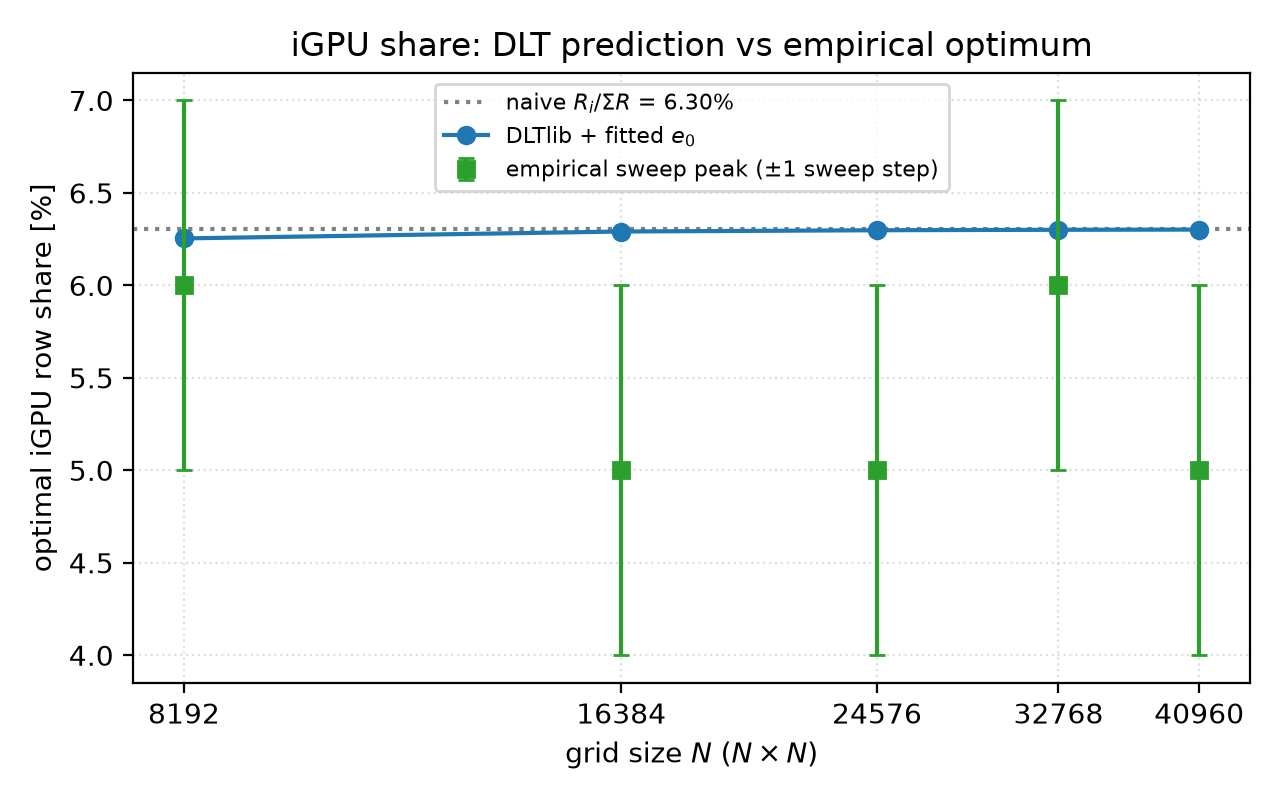
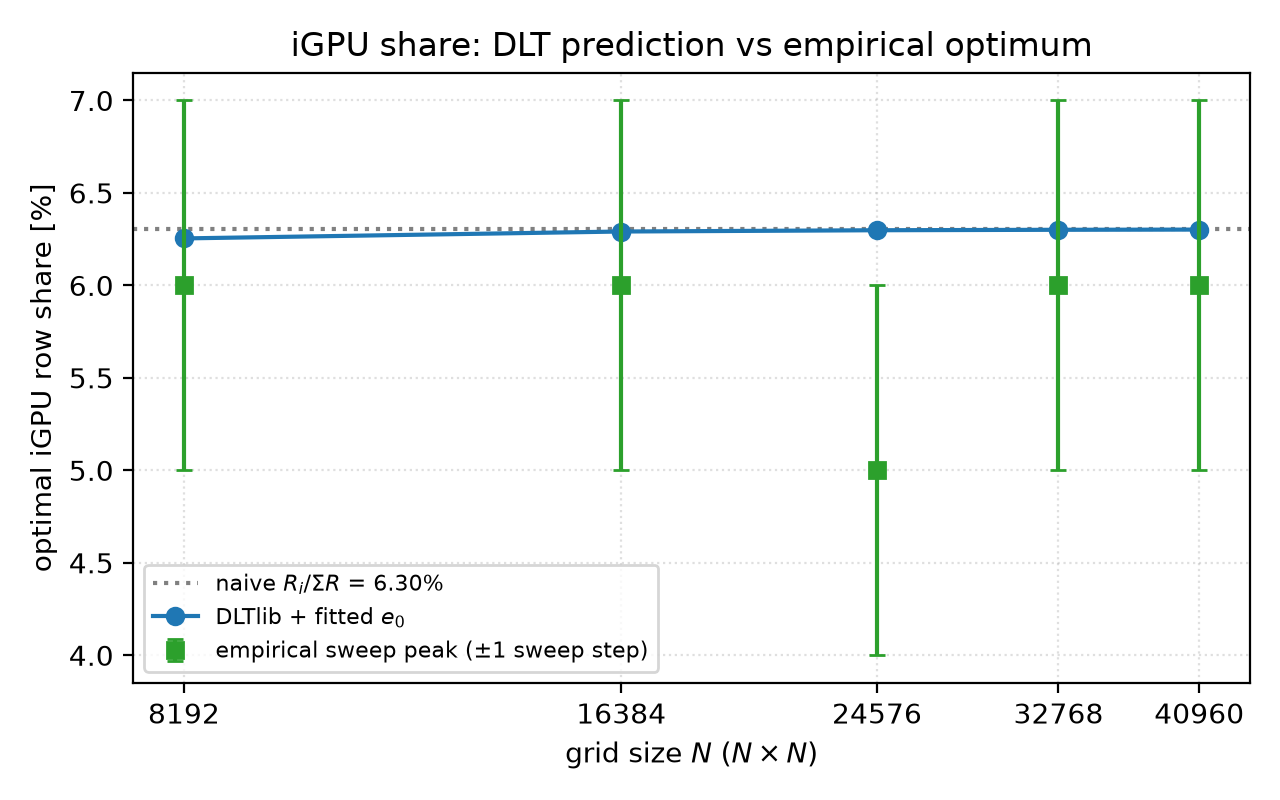
report(hybrid): re-run fraction sweep; fix fig 2's overlapping twin-axis panel
Panel B of hybrid_frac_sweep.png twin-axed "gain over pure dGPU" against
"share of the R_i+R_d ceiling" -- but share = dGPU-share * (1 + gain) with the
dGPU share flat at ~93.7%, so the second curve was an affine rescale of the
first and the two lines rendered on top of each other. Redesign: one axis,
hybrid vs pure dGPU as shares of the ceiling, the win annotated as the gap;
panel A now encodes N with an ordinal light->dark ramp instead of assorted
hues.

The sweep re-ran end to end (the original frac_sweep.csv was never committed)
and reproduces the story within boost noise: peaks at a 5-6% iGPU share (4/5
grids at 6%), cliff past 7% (deepest at N=40960), win +1.1% (8192^2) -> +5.5%
(32768^2) at 98.9% of the ceiling. This time the CSV is committed and the
figure comes from a committed script (analysis/plot_frac_sweep.py), which
also prints the tab:frac numbers for syncing.

Synced to the new data: tab:frac, abstract, prose, fig 2 caption, and the
tab:dlt empirical column in hybrid_report.tex (PDF rebuilt); EMPIRICAL peaks
in analysis/dlt/plot_dlt.py (dlt_pred_vs_empirical.png regenerated); the
CLAUDE.md finding + layout tree. sweep_fracs.sh gets its lost +x bit back.

Claude-Session: https://claude.ai/code/session_019XXCGrGnquYErcLBCEXhaA

diff --git a/analysis/plot_frac_sweep.py b/analysis/plot_frac_sweep.py
@@ -1,0 +1,133 @@
+#!/usr/bin/env python3
+"""Figure for the iGPU+dGPU fraction-sweep section of report/hybrid_report.tex.
+
+Reads results/linux/frac_sweep.csv (written by scripts/sweep_fracs.sh: the binary's
+12-column --csv schema plus a leading igpu_frac column, REPS rows per point) and
+writes report/img/hybrid_frac_sweep.png:
+
+  (A) steady-state throughput vs iGPU row share, one curve per grid size N —
+      best-of-reps per point, an ordinal light->dark ramp so the curve order
+      encodes N, and the naive-DLT share R_i/(R_i+R_d) as a reference line.
+  (B) best static split vs pure dGPU as a share of the DLT ceiling R_i+R_d, on a
+      single axis. (An earlier revision twin-axed "gain over dGPU" against
+      "share of ceiling"; those are the same curve up to the constant dGPU/ceiling
+      factor, so the two lines rendered on top of each other — the gain is the
+      *gap* between the two curves here, annotated at the ends.)
+
+Also prints the Table 'tab:frac' summary rows (and the peak shares that feed
+EMPIRICAL in analysis/dlt/plot_dlt.py), so report numbers can be synced.
+"""
+import csv
+import os
+from collections import defaultdict
+
+import matplotlib
+matplotlib.use("Agg")
+import matplotlib.pyplot as plt
+
+HERE = os.path.dirname(os.path.abspath(__file__))
+CSV = os.path.join(HERE, "..", "results", "linux", "frac_sweep.csv")
+OUT = os.path.abspath(os.path.join(HERE, "..", "report", "img", "hybrid_frac_sweep.png"))
+
+R_IGPU = 2.1e3  # Mcells/s; the iGPU halo rate from the DLT fit (report Eq. naive2gpu)
+
+# Ordinal blue ramp (one hue, light->dark encodes N) + chart chrome.
+RAMP = ["#86b6ef", "#5598e7", "#2a78d6", "#1c5cab", "#0d366b"]
+INK, INK2, MUTED, GRIDC, AXISC = "#0b0b0b", "#52514e", "#898781", "#e1e0d9", "#c3c2b7"
+
+
+def load():
+    """-> {N: {frac: best-of-reps Mcells/s (kernel)}}"""
+    best = defaultdict(dict)
+    with open(CSV) as f:
+        for row in csv.DictReader(f):
+            n, frac = int(row["rows"]), float(row["igpu_frac"])
+            mc = float(row["mcells_kernel"])
+            if mc > best[n].get(frac, 0.0):
+                best[n][frac] = mc
+    return dict(sorted(best.items()))
+
+
+def style(ax):
+    ax.grid(True, color=GRIDC, lw=0.7)
+    ax.set_axisbelow(True)
+    for s in ax.spines.values():
+        s.set_color(AXISC)
+    ax.tick_params(colors=MUTED, labelsize=8)
+
+
+def main():
+    best = load()
+    ns = list(best)
+
+    fig, (axa, axb) = plt.subplots(1, 2, figsize=(10.0, 4.0), dpi=200)
+    fig.patch.set_facecolor("white")
+
+    # ---- (A) throughput vs split, per grid size ----
+    for i, n in enumerate(ns):
+        pts = sorted(best[n].items())
+        fr = [f * 100 for f, _ in pts]
+        gc = [m / 1e3 for _, m in pts]
+        axa.plot(fr, gc, "-o", color=RAMP[i], lw=2, ms=5,
+                 markeredgecolor="white", markeredgewidth=1.1,
+                 solid_capstyle="round", label=f"$N$={n}")
+    # Reference the naive share against the mean pure-dGPU rate over the grids.
+    r_d = sum(best[n][0.0] for n in ns) / len(ns)
+    naive = 100 * R_IGPU / (R_IGPU + r_d)
+    axa.axvline(naive, color=MUTED, lw=1, ls=(0, (4, 3)))
+    axa.text(naive + 0.15, axa.get_ylim()[0] + 0.5,
+             f"naive DLT\n$R_i/\\Sigma R$ = {naive:.1f}%",
+             color=INK2, fontsize=7.5, va="bottom")
+    axa.set_xlabel("iGPU row share (%)", color=INK2, fontsize=9)
+    axa.set_ylabel("throughput (Gcells/s, kernel)", color=INK2, fontsize=9)
+    axa.set_title("(A) Throughput vs split, per grid size", color=INK, fontsize=10)
+    axa.legend(fontsize=7.5, loc="lower left", edgecolor=AXISC,
+               labelcolor=INK2, framealpha=1.0)
+    style(axa)
+
+    # ---- (B) share of the DLT ceiling, single axis ----
+    dgpu = [best[n][0.0] for n in ns]
+    peak = [max(best[n].values()) for n in ns]
+    ceil = [d + R_IGPU for d in dgpu]
+    hyb_pct = [100 * p / c for p, c in zip(peak, ceil)]
+    dgpu_pct = [100 * d / c for d, c in zip(dgpu, ceil)]
+    win = [100 * (p / d - 1) for p, d in zip(peak, dgpu)]
+
+    axb.axhline(100, color=AXISC, lw=1)
+    axb.text(ns[0], 100.15, "DLT ceiling  $R_i+R_d$", color=INK2, fontsize=7.5,
+             va="bottom")
+    axb.plot(ns, hyb_pct, "-o", color=RAMP[2], lw=2, ms=5.5,
+             markeredgecolor="white", markeredgewidth=1.1, label="best static split")
+    axb.plot(ns, dgpu_pct, "-o", color=MUTED, lw=2, ms=5,
+             markeredgecolor="white", markeredgewidth=1.1, label="pure dGPU")
+    # The gain over pure dGPU is the gap between the curves; annotate the ends.
+    for i in sorted({0, win.index(max(win))}):
+        axb.annotate(f"+{win[i]:.1f}%", (ns[i], hyb_pct[i]), (0, 8),
+                     textcoords="offset points", ha="center",
+                     color=INK2, fontsize=8)
+    axb.set_xticks(ns)
+    axb.set_xticklabels([str(n) for n in ns])
+    axb.set_xlabel("grid size $N$  ($N \\times N$)", color=INK2, fontsize=9)
+    axb.set_ylabel("% of DLT ceiling  $R_i+R_d$", color=INK2, fontsize=9)
+    axb.set_title("(B) Best split vs pure dGPU, share of the ceiling",
+                  color=INK, fontsize=10)
+    axb.set_ylim(min(dgpu_pct) - 1.2, 101.4)
+    axb.legend(fontsize=7.5, loc="center right", edgecolor=AXISC,
+               labelcolor=INK2, framealpha=1.0)
+    style(axb)
+
+    fig.tight_layout()
+    fig.savefig(OUT, facecolor="white")
+    print("wrote", OUT)
+
+    # tab:frac / plot_dlt.py EMPIRICAL sync
+    print(f"\n{'N':>6} {'dGPU':>6} {'best':>6} {'share':>6} {'win':>6} "
+          f"{'ceiling':>7} {'%ceil':>6}")
+    for i, n in enumerate(ns):
+        share = max(best[n], key=best[n].get)
+        print(f"{n:>6} {dgpu[i]/1e3:>6.2f} {peak[i]/1e3:>6.2f} {share*100:>5.0f}% "
+              f"{win[i]:>+5.1f}% {ceil[i]/1e3:>7.2f} {hyb_pct[i]:>5.1f}%")
+
+
+if __name__ == "__main__":
+    main()

diff --git a/report/hybrid_report.tex b/report/hybrid_report.tex
@@ -71,7 +71,7 @@
 	iGPU as a genuine second DLT node changes the verdict. Because the inter-node seam is
 	a single fixed row while compute grows as $N^2$, the communication cost vanishes as
 	$1/N$: a well-chosen static iGPU\,$+$\,dGPU split beats pure dGPU by a margin that
-	grows with the grid, reaching $+5.6\,\%$ at $N=32768$ and 99\,\% of the
+	grows with the grid, reaching $+5.5\,\%$ at $N=32768$ and 99\,\% of the
 	$R_\text{iGPU}+R_\text{dGPU}$ ceiling. The prize predicted by DLT is real once the
 	load is large enough to amortize the seam --- though the default auto-calibration
 	still overshoots the optimum.
@@ -337,8 +337,8 @@ Fig.~\ref{fig:frac} sweeps the iGPU row share directly, holding the composition 
 \texttt{--fracs} so no calibration bias, long runs so the boost clocks are ramped).
 Each curve rises to a peak near a 5--6\,\% iGPU share and then falls off a cliff: past
 $\sim$7\,\% the slow iGPU is handed more rows than it can finish inside the dGPU's step
-time and becomes the bottleneck. The empirical peaks scatter between 5\,\% and 6\,\%,
-straddling the naive 6.3\,\% of Eq.~\eqref{eq:naive2gpu} to within the sweep's 1\,\%
+time and becomes the bottleneck. The empirical peaks sit at 5--6\,\% (four of the five
+grids peak at 6\,\%), straddling the naive 6.3\,\% of Eq.~\eqref{eq:naive2gpu} to within the sweep's 1\,\%
 grid resolution: near the top the throughput curve is flat, so best-of-five boost
 variance moves the winning grid point by $\pm$1 step. It is tempting to read the
 sub-6.3\,\% peaks as the seam and the iGPU's launch overhead lowering its effective
@@ -358,11 +358,11 @@ are sampling noise, not a real overhead-driven bias.
 		\toprule
 		$N$ & dGPU & best (iGPU share) & win & ceiling & \% of ceiling \\
 		\midrule
-		8192  & 30.95 & 31.20 (6\,\%) & $+0.8\,\%$ & 33.05 & 94.4\,\% \\
-		16384 & 31.14 & 31.81 (5\,\%) & $+2.2\,\%$ & 33.24 & 95.7\,\% \\
-		24576 & 31.48 & 32.81 (5\,\%) & $+4.2\,\%$ & 33.58 & 97.7\,\% \\
-		32768 & 31.58 & 33.35 (6\,\%) & $+5.6\,\%$ & 33.68 & 99.0\,\% \\
-		40960 & 31.46 & 32.94 (5\,\%) & $+4.7\,\%$ & 33.56 & 98.2\,\% \\
+		8192  & 30.43 & 30.77 (6\,\%) & $+1.1\,\%$ & 32.53 & 94.6\,\% \\
+		16384 & 31.06 & 32.07 (6\,\%) & $+3.2\,\%$ & 33.16 & 96.7\,\% \\
+		24576 & 31.58 & 32.73 (5\,\%) & $+3.6\,\%$ & 33.68 & 97.2\,\% \\
+		32768 & 31.62 & 33.36 (6\,\%) & $+5.5\,\%$ & 33.72 & 98.9\,\% \\
+		40960 & 31.54 & 33.17 (6\,\%) & $+5.2\,\%$ & 33.64 & 98.6\,\% \\
 		\bottomrule
 	\end{tabular}
 \end{table}
@@ -375,9 +375,9 @@ The seam $b$ is a single row --- a fixed $C$ bytes per step --- while the comput
 $L = R\cdot C$ grows as $N^2$. The communication-to-computation ratio is therefore
 $\sim b/L \sim 1/N$ and vanishes as the grid grows, so the achievable throughput must
 approach the DLT ceiling $R_\text{iGPU}+R_\text{dGPU}$. That is what happens: the best
-static split beats pure dGPU by $+0.8\,\%$ at $N=8192$, growing monotonically to
-$+5.6\,\%$ at $N=32768$ ($+4.7\,\%$ at $40960$, within variance of the peak). As a
-fraction of the ceiling, the hybrid climbs from 94.4\,\% to 99.0\,\%, while pure dGPU
+static split beats pure dGPU by $+1.1\,\%$ at $N=8192$, growing monotonically to
+$+5.5\,\%$ at $N=32768$ ($+5.2\,\%$ at $40960$, within variance of the peak). As a
+fraction of the ceiling, the hybrid climbs from 94.6\,\% to 98.9\,\%, while pure dGPU
 stays pinned at $\sim$93.7\,\% --- it is simply leaving the iGPU's $\sim$6\,\% on the
 table. At the largest grids the two-GPU hybrid captures essentially the entire
 theoretical bound: DLT behaving exactly as \S11.3 describes in the large-load limit,
@@ -386,12 +386,14 @@ rates.
 
 \insertimage[\label{fig:frac}]{hybrid_frac_sweep}{width=\linewidth}{iGPU+dGPU fraction sweep.
 (A)~Steady-state throughput vs the iGPU row share, one curve per grid size (best of
-five). Each curve rises to a peak near 5--6\,\% then falls off a cliff as the iGPU is
-overloaded past the dGPU's step time; the empirical peak sits just below the naive-DLT
-share $R_i/(R_i{+}R_d)\approx 6.3\,\%$ (dotted). (B)~The best static split's gain over
-pure dGPU (left axis) grows with $N$, and the hybrid's share of the $R_i+R_d$ ceiling
-(right axis) climbs from 94\,\% to 99\,\% while pure dGPU stays flat at $\sim$94\,\% ---
-the fixed one-row seam amortized against $N^2$ compute.}
+five; darker = larger $N$). Each curve rises to a peak at 5--6\,\% then falls off a
+cliff as the iGPU is overloaded past the dGPU's step time --- steepest at the largest
+grid; the peaks straddle the naive-DLT share $R_i/(R_i{+}R_d)\approx 6.3\,\%$ (dashed)
+within the sweep's 1\,\% step. (B)~Best static split and pure dGPU as shares of the
+$R_i+R_d$ ceiling, on one axis: the hybrid climbs from 94.6\,\% to 98.9\,\% while pure
+dGPU stays pinned at $\sim$93.7\,\%; the gap between the two curves is the hybrid's
+win over pure dGPU (annotated at the ends, $+1.1\,\%\to+5.5\,\%$), growing as the fixed
+one-row seam is amortized against $N^2$ compute.}
 
 This reverses the pessimistic reading from the CPU+GPU study and the small grids: the
 earlier ``a few percent below pure dGPU'' was measured only at $N\le 16384$, where the
@@ -437,10 +439,10 @@ of the naive $6.30\,\%$ at every grid size, and the correction vanishes as $1/N^
 		$N$ & naive $R_i/\Sigma R$ & DLTlib $+$ fitted $e_0$ & empirical peak \\
 		\midrule
 		8192  & 6.30\,\% & 6.25\,\% & $\sim$6\,\% \\
-		16384 & 6.30\,\% & 6.29\,\% & $\sim$5\,\% \\
+		16384 & 6.30\,\% & 6.29\,\% & $\sim$6\,\% \\
 		24576 & 6.30\,\% & 6.30\,\% & $\sim$5\,\% \\
 		32768 & 6.30\,\% & 6.30\,\% & $\sim$6\,\% \\
-		40960 & 6.30\,\% & 6.30\,\% & $\sim$5\,\% \\
+		40960 & 6.30\,\% & 6.30\,\% & $\sim$6\,\% \\
 		\bottomrule
 	\end{tabular}
 \end{table}
@@ -507,7 +509,7 @@ depends on the node pair and the grid size.
 	idle integrated GPU (\S\ref{sec:twogpu}) raises the minority share to $\sim$6\,\%,
 	and because the seam is a single fixed row its cost vanishes as $1/N$. A well-chosen
 	static iGPU+dGPU split then beats pure dGPU by a margin that grows with the grid ---
-	up to $+5.6\,\%$ at $N=32768$, reaching 99\,\% of the $R_\text{iGPU}+R_\text{dGPU}$
+	up to $+5.5\,\%$ at $N=32768$, reaching 99\,\% of the $R_\text{iGPU}+R_\text{dGPU}$
 	ceiling. The prize is real here; at small $N$ it hid inside the boost noise, and the
 	default auto-split still overshoots it (\S\ref{sec:twogpu-auto}).
 	\item The only speed-up in the data is a kernel-engineering side effect. The
@@ -529,8 +531,8 @@ depends on the node pair and the grid size.
 	share is large; or the load is large enough that the fixed one-row seam is negligible
 	against $N^2$ compute. The CPU+GPU pair meets neither (0.6\,\% share, and the grids do
 	not go high enough); the iGPU\,$+$\,dGPU pair meets the second at $N\gtrsim 16384$ and
-	wins by up to $+5.6\,\%$ (\S\ref{sec:twogpu}). Use it there with a hand-set
-	\texttt{--fracs} near $0.05$.
+	wins by up to $+5.5\,\%$ (\S\ref{sec:twogpu}). Use it there with a hand-set
+	\texttt{--fracs} near $0.05$--$0.06$.
 	\item Fix the auto-calibrated split so the default \texttt{--engine hybrid} lands on
 	the $\sim$5--6\,\% iGPU optimum instead of overshooting into the cliff: fold a
 	communication/overhead term into the calibration, or damp the split toward the dGPU

diff --git a/analysis/dlt/plot_dlt.py b/analysis/dlt/plot_dlt.py
@@ -23,7 +23,7 @@ IMG = os.path.abspath(os.path.join(HERE, "..", "..", "report", "img"))
 
 # Empirical fraction-sweep peaks (iGPU row share at the best throughput),
 # from report/hybrid_report.tex Table 'tab:frac'.
-EMPIRICAL = {8192: 0.06, 16384: 0.05, 24576: 0.05, 32768: 0.06, 40960: 0.05}
+EMPIRICAL = {8192: 0.06, 16384: 0.06, 24576: 0.05, 32768: 0.06, 40960: 0.06}
 TARGET_NS = [8192, 16384, 24576, 32768, 40960]
 
 

diff --git a/CLAUDE.md b/CLAUDE.md
@@ -95,7 +95,9 @@ The engine/renderer **strategy** layout below is in place. What exists and works
   boost noise (the "below 6.3% due to overhead" reading over-interpreted sweep noise). The ghost seam is
   a **fixed one row** while compute grows as N², so the
   per-step communication vanishes as ~1/N: a **well-chosen static split beats pure dGPU by a margin that
-  grows with the grid** — +0.8% at 8192² → **+5.6% at 32768²**, reaching **~99% of the R_iGPU+R_dGPU
+  grows with the grid** — +1.1% at 8192² → **+5.5% at 32768²** (re-run 2026-07-14; the sweep is
+  `scripts/sweep_fracs.sh` → `results/linux/frac_sweep.csv`, plotted by `analysis/plot_frac_sweep.py`),
+  reaching **~99% of the R_iGPU+R_dGPU
   ceiling** (pure dGPU sits at ~94%). At small N the seam still dominates (≈ pure dGPU) — the earlier
   "a few % below" reading was only measured at N≤16384, inside the boost noise. The default
   **auto-calibration overshoots** the optimum (naive rates, boost-warmup-biased) into the cliff, so the
@@ -292,9 +294,11 @@ src/patterns/  Pattern.cpp RleLoader.cpp
 tests/         compile_smoke_test.cpp rules_test.cpp rle_loader_test.cpp cpu_parallel_test.cpp cuda_equivalence_test.cpp opencl_equivalence_test.cpp hybrid_equivalence_test.cpp
 patterns/      *.rle                                       (block, blinker, birth_on_six, glider, acorn, r_pentomino, highlife_replicator, highlife_spaceship, highlife_c98_gun)
 scripts/       sweep.sh sweep_gpu_opt.ps1 sweep_scaling.ps1 (CPU+CUDA+OpenCL+hybrid sweeps; .ps1 are the Windows variants)
+               sweep_fracs.sh                              (iGPU+dGPU DLT fraction sweep -> results/linux/frac_sweep.csv)
                run_gui.sh                                  (launch gol_gui on the NVIDIA GPU for zero-copy interop)
-results/       sweep_gpu_opt.csv sweep_scaling.csv          (Windows baseline, BOM); linux/ holds the Linux re-run
+results/       sweep_gpu_opt.csv sweep_scaling.csv          (Windows baseline, BOM); linux/ holds the Linux re-run + frac_sweep.csv
 analysis/      results.ipynb                               (loads results/linux/, writes report/img/bench_*.png)
+               plot_frac_sweep.py                          (frac_sweep.csv -> report/img/hybrid_frac_sweep.png + tab:frac numbers)
                dlt/                                        (DLTlib cross-check: dlt_split.cpp + build.sh, measure_overhead.sh, plot_dlt.py, overhead.csv, README.md)
 ```
 